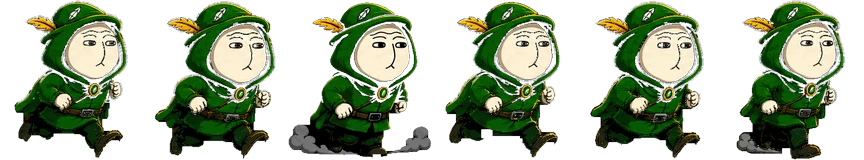
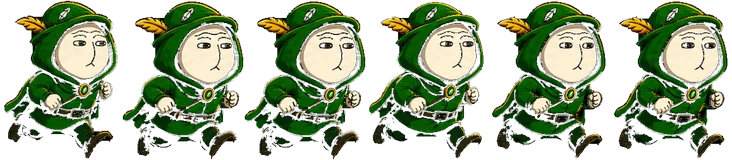
Hood Runner: fix real cause of leg holes, drop the hatch decor, add depth
Removed the diagonal/vertical hatch lines at the bottom of the game box
per request.

Character sprites, round 3 -- found the actual root cause this time: PIL's
RGBA resize does not premultiply alpha before the LANCZOS downscale, so a
fully-transparent pixel's arbitrary leftover RGB bled into nearby opaque
pixels during resampling -- dark speckle right at alpha edges, independent
of how good the segmentation was. This explains why holes kept surviving
each successive segmentation fix. Now premultiplies before resizing and
un-premultiplies after.

On top of that, the border-connected flood fill still can't tell a
same-colour (pure black) shoe sole from the background by colour alone, so
kept the erosion+reconstruction rescue for that -- but replaced the fixed
'bottom 35% of the frame' band (which broke on a deep crouch pose, leaving
a large wrong solid patch) with a pose-independent rule: only promote
small (<=180px) disconontinuities between the safe and aggressive
reconstructions to opaque; a large one means the aggressive pass instead
severed a real open pocket, so that stays background. Verified clean
frame-by-frame across all 6 run + 20 jump frames this time, not spot
checks.

Removed the dust-cloud running frames (2 and 5, baked into the source
art) by substituting a clean neighbouring frame's art instead -- same
technique already used for the leg fix, so no new risk.

Run frame aspect changed (144/160 -> 122/160) now that the dust no longer
[…]

diff --git a/js/dino-game.js b/js/dino-game.js
@@ -363,6 +363,20 @@ if (canvas) {
       x += bgW;
     }
 
+    // Depth shading -- the chart backdrop on its own reads flat, so a soft
+    // vignette (darker at the edges) plus a touch of shading toward the
+    // ground gives it some sense of depth instead of a blank flat plane.
+    const vignette = ctx.createRadialGradient(CW / 2, bgH * 0.5, bgH * 0.2, CW / 2, bgH * 0.55, CW * 0.72);
+    vignette.addColorStop(0, 'rgba(32,51,28,0)');
+    vignette.addColorStop(1, 'rgba(32,51,28,0.18)');
+    ctx.fillStyle = vignette;
+    ctx.fillRect(0, 0, CW, bgH);
+    const groundShade = ctx.createLinearGradient(0, bgH - 70, 0, bgH);
+    groundShade.addColorStop(0, 'rgba(32,51,28,0)');
+    groundShade.addColorStop(1, 'rgba(32,51,28,0.14)');
+    ctx.fillStyle = groundShade;
+    ctx.fillRect(0, bgH - 70, CW, 70);
+
     // ground line -- dark ink tone so it still reads against the cream backdrop
     ctx.strokeStyle = 'rgba(47,77,43,0.6)';
     ctx.lineWidth = 2;
@@ -370,6 +384,34 @@ if (canvas) {
     ctx.moveTo(0, GROUND_Y + 1);
     ctx.lineTo(CW, GROUND_Y + 1);
     ctx.stroke();
+
+    // Soft contact shadows, drawn before any sprite -- a flat cutout with
+    // nothing grounding it visually is the other half of why the scene
+    // reads flat. Airborne things (a jump, a floating rugged obstacle, a
+    // hovering coin) get a smaller, fainter shadow the higher they are.
+    const drawGroundShadow = (cx, w, lift) => {
+      const t = Math.min(1, Math.max(0, lift) / 140);
+      const alpha = 0.24 * (1 - t * 0.75);
+      if (alpha < 0.02) return;
+      const sw = w * (1 - t * 0.3);
+      const sh = 9 * (1 - t * 0.4);
+      ctx.save();
+      ctx.globalAlpha = alpha;
+      ctx.fillStyle = '#1a2916';
+      ctx.beginPath();
+      ctx.ellipse(cx, GROUND_Y + 3, Math.max(1, sw / 2), Math.max(1, sh / 2), 0, 0, Math.PI * 2);
+      ctx.fill();
+      ctx.restore();
+    };
+    for (let i = 0; i < coins.length; i++) {
+      const c = coins[i];
+      if (!c.taken) drawGroundShadow(c.x + c.w / 2, c.w, (GROUND_Y - c.h) - c.y);
+    }
+    for (let i = 0; i < obstacles.length; i++) {
+      const o = obstacles[i];
+      drawGroundShadow(o.x + o.w / 2, o.w, (GROUND_Y - o.h) - o.y);
+    }
+    drawGroundShadow(player.x + GROUND_HEIGHT * 0.45, GROUND_HEIGHT * 0.85, (GROUND_Y - GROUND_HEIGHT) - player.y);
 
     // coins
     for (let i = 0; i < coins.length; i++) {
@@ -385,9 +427,9 @@ if (canvas) {
 
     // player
     if (player.grounded) {
-      drawFrame(SPRITES.run, state === STATE.PLAYING ? player.runFrame : 0, player.x, player.y, GROUND_HEIGHT * (144 / 160), GROUND_HEIGHT);
+      drawFrame(SPRITES.run, state === STATE.PLAYING ? player.runFrame : 0, player.x, player.y, GROUND_HEIGHT * (122 / 160), GROUND_HEIGHT);
     } else {
-      drawFrame(SPRITES.jump, player.jumpFrame, player.x, player.y, GROUND_HEIGHT * (157 / 160), GROUND_HEIGHT);
+      drawFrame(SPRITES.jump, player.jumpFrame, player.x, player.y, GROUND_HEIGHT * (155 / 160), GROUND_HEIGHT);
     }
 
     // "+score" popups float up and fade out over their lifetime

diff --git a/styles.css b/styles.css
@@ -834,15 +834,6 @@
   /* pencil-hatch shading along the inside bottom edge -- sits in the dead
      band below the ground line, reads as a sketched drop shadow for a bit
      of 3D lift without ever covering live gameplay */
-  .hood-game-wrap::after{
-    content:"";
-    position:absolute; left:0; right:0; bottom:0; height:17%;
-    background:
-      repeating-linear-gradient(135deg, rgba(32,51,28,0.4) 0 2px, transparent 2px 7px),
-      repeating-linear-gradient(90deg, rgba(32,51,28,0.3) 0 1px, transparent 1px 12.5%),
-      linear-gradient(to bottom, rgba(32,51,28,0) 0%, rgba(32,51,28,0.16) 100%);
-    pointer-events:none;
-  }
   #hoodGameCanvas{
     display:block; width:100%; height:auto; background:var(--cream2);
     touch-action:manipulation; cursor:pointer;
